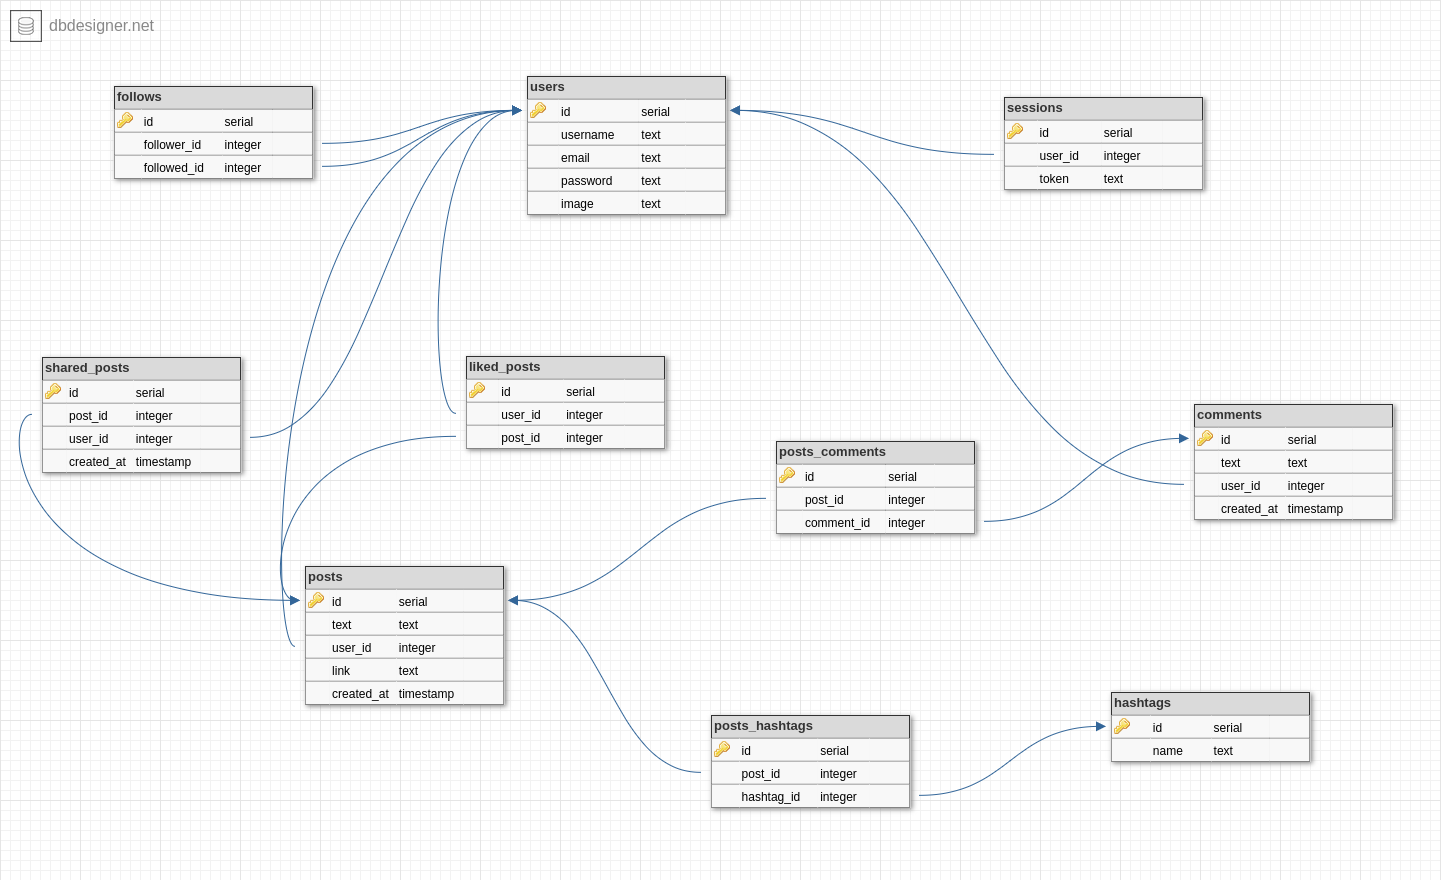
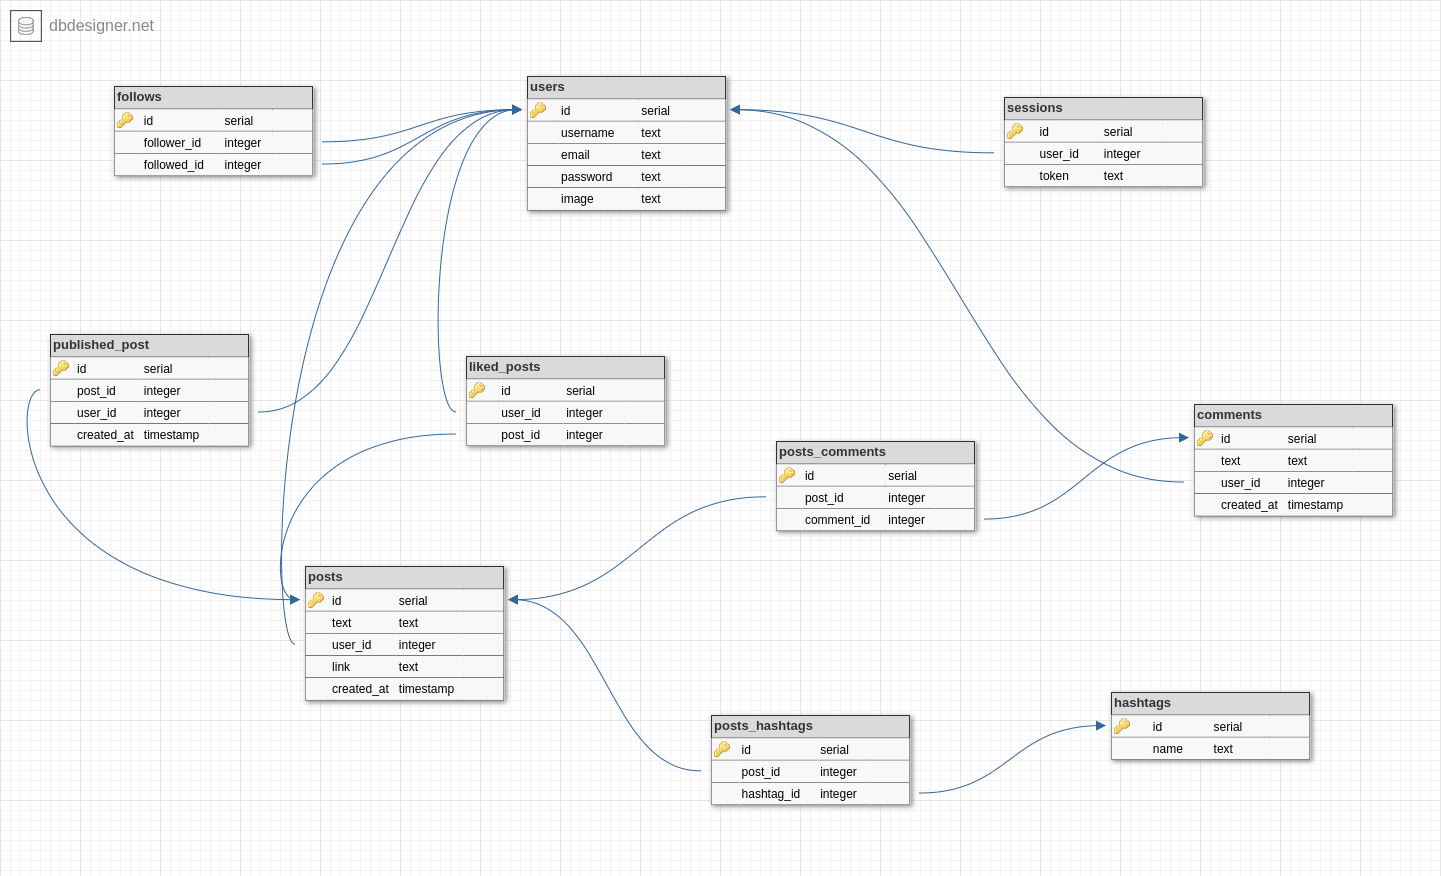
feat: prepare routes for share features

diff --git a/src/repositories/postRepository.js b/src/repositories/postRepository.js
@@ -2,7 +2,7 @@ import connection from "../database/db.js";
 
 export async function hashtagPosts(hashtag) {
 	return connection.query(
-        `
+		`
         SELECT 
             p.*
         FROM
@@ -24,8 +24,8 @@ export async function hashtagPosts(hashtag) {
 	);
 }
 
-export async function getAllPostIds () {
-    return connection.query(`
+export async function getAllPostIds() {
+	return connection.query(`
         SELECT
             id
         FROM
@@ -139,5 +139,76 @@ export async function getPostsbyHashtagName(userId, hashtag) {
 
     `,
 		[userId, hashtag]
+	);
+}
+
+export async function postRetweet(userId, postId) {
+	return connection.query(
+		`
+        INSERT INTO
+            published_posts (post_id, user_id)
+        VALUES
+            ($1, $2)
+    `,
+		[postId, userId]
+	);
+}
+
+export async function selfShare(userId, postId) {
+	return connection.query(
+		`
+        SELECT
+        EXISTS(
+            SELECT
+                *
+            FROM
+                published_posts pp
+            JOIN
+                posts p
+            ON p.user_id = pp.user_id
+            WHERE
+                p.user_id = $1 AND pp.post_id = $2
+        ) AS "selfShare";
+    `,
+		[userId, postId]
+	);
+}
+
+export async function alreadyShared(userId, postId) {
+	return connection.query(
+		`
+        SELECT
+        EXISTS (
+            SELECT
+                *
+            FROM
+                published_posts pp
+            WHERE
+                pp.user_id = $1 AND pp.post_id = $2
+        ) as "alreadyShared"
+    `,
+		[userId, postId]
+	);
+}
+
+export async function getNumberShares(postId) {
+	return connection.query(
+		`
+        SELECT
+            COUNT(pp.user_id) AS "numberOfShares"
+        FROM
+            published_posts pp
+        JOIN
+            posts p
+        ON
+            pp.post_id = p.id
+        WHERE
+            pp.post_id = $1
+        AND
+            pp.user_id <> p.user_id
+        GROUP BY
+            pp.post_id;
+    `,
+		[postId]
 	);
 }

diff --git a/src/routers/postsRouter.js b/src/routers/postsRouter.js
@@ -2,17 +2,40 @@ import { Router } from "express";
 import { getPosts } from "../controllers/getPostsController.js";
 import {
 	getHashtagPosts,
+	getShares,
 	getUsersLiked,
+	postShare,
 	updatePostText,
 } from "../controllers/postController.js";
-import { checkHashtag, checkPostIdParameter } from "../middlewares/postMiddleware.js";
+import {
+	checkHashtag,
+	checkPostIdParameter,
+	verifyShareUser,
+} from "../middlewares/postMiddleware.js";
 import { tokenValidation } from "../middlewares/tokenValidation.js";
 
 const postsRouter = Router();
 
 postsRouter.get("/posts", tokenValidation, getPosts);
-postsRouter.get("/posts/hashtag/:hashtag", tokenValidation, checkHashtag, getHashtagPosts);
+postsRouter.get(
+	"/posts/hashtag/:hashtag",
+	tokenValidation,
+	checkHashtag,
+	getHashtagPosts
+);
 postsRouter.get("/posts/likes/:postId", checkPostIdParameter, getUsersLiked);
 postsRouter.put("/posts/:postId", tokenValidation, updatePostText);
+postsRouter.post(
+	"/posts/shares/:postId",
+	tokenValidation, //token validation
+	checkPostIdParameter, // postId parameter validation
+	verifyShareUser, // verifies if user has already shared post
+	postShare // saves the share in table published_posts
+);
+postsRouter.get(
+	"/posts/shares/:postId",
+	checkPostIdParameter, // verifies the sent parameter and gets postId
+	getShares
+);
 
 export default postsRouter;

diff --git a/src/controllers/postController.js b/src/controllers/postController.js
@@ -1,6 +1,8 @@
 import {
 	getHashtagId,
+	getNumberShares,
 	getPostsbyHashtagName,
+	postRetweet,
 	updatePost,
 	updatePostHashtag,
 	UsersLiked,
@@ -134,6 +136,32 @@ export async function updatePostText(req, res) {
 				await updatePostHashtag(postId, tagId);
 			}
 		}
+	} catch (err) {
+		console.log(err);
+		return res.sendStatus(500);
+	}
+	res.sendStatus(200);
+}
+
+export async function postShare(req, res) {
+	const userId = res.locals.userId;
+	const postId = res.locals.postId;
+
+	try {
+		await postRetweet(userId, postId);
+		res.sendStatus(201);
+	} catch (err) {
+		console.log(err);
+		return res.sendStatus(500);
+	}
+}
+
+export async function getShares(req, res) {
+	const postId = res.locals.postId;
+
+	try {
+		const response = await getNumberShares(postId);
+		const nShares = response.rows.map((r) => r.numberOfShares);
 	} catch (err) {
 		console.log(err);
 		return res.sendStatus(500);

diff --git a/src/middlewares/postMiddleware.js b/src/middlewares/postMiddleware.js
@@ -1,4 +1,5 @@
 import {
+	alreadyShared,
 	getAllHashtags,
 	getAllPostIds,
 } from "../repositories/postRepository.js";
@@ -40,6 +41,26 @@ export async function checkHashtag(req, res, next) {
 		if (!allHashtags.includes(hashtag.toLowerCase()))
 			return res.sendStatus(404);
 		res.locals.hashtag = hashtag;
+	} catch (err) {
+		console.log(err);
+		return res.sendStatus(500);
+	}
+
+	next();
+}
+
+export async function verifyShareUser(req, res, next) {
+	const userId = res.locals.userId;
+	const postId = res.locals.postId;
+
+	try {
+		const alredySharedPostRes = await alreadyShared(userId, postId);
+		const alreadySharedPost = alredySharedPostRes.rows[0].alreadyShared;
+		if (alreadySharedPost) {
+			return res
+				.status(409)
+				.send("You already shared this post with the world.");
+		}
 	} catch (err) {
 		console.log(err);
 		return res.sendStatus(500);
